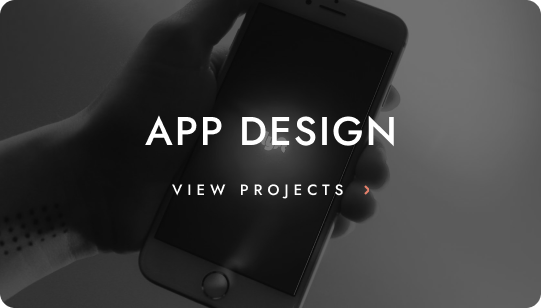
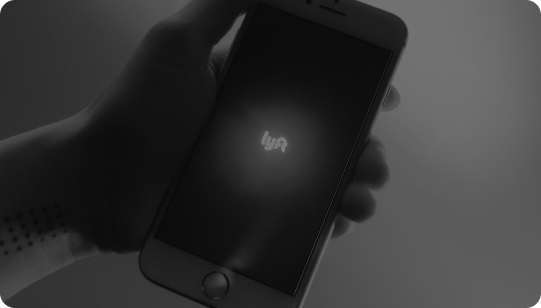
add news

diff --git a/src/components/Cards-com/Cards-com.scss b/src/components/Cards-com/Cards-com.scss
@@ -1,8 +1,55 @@
-.cards-item {
-    width: 541px;
-    height: 308px;
-    flex-shrink: 0;
-    border-radius: 15px;
-    background: #000;
-    background-image: url(../../assets/img/App-design.png);
+.cards-list {
+    display: flex;
+    align-items: center;
+    gap: 0 30px;
+
+    .cards-item {
+        display: flex;
+        position: relative;
+        flex-direction: column;
+        justify-content: center;
+        text-align: center;
+        width: 541px;
+        height: 308px;
+        flex-shrink: 0;
+        border-radius: 15px;
+        background: #000;
+        background-image: url(../../assets/img/App-design.png);
+
+        &:nth-child(2) {
+            background-image: url(../../assets/img/nature.png);
+        }
+
+        h2 {
+            color: #FFF;
+            text-align: center;
+            font-size: 40px;
+            font-style: normal;
+            font-weight: 500;
+            line-height: 48px;
+            letter-spacing: 2px;
+            margin-bottom: 24px;
+        }
+
+        p {
+            color: #FFF;
+            font-size: 15px;
+            font-style: normal;
+            font-weight: 500;
+            line-height: normal;
+            letter-spacing: 5px;
+            text-transform: uppercase;
+        }
+
+        img {
+            position: absolute;
+            width: 8px;
+            height: 10px;
+            right: 30%;
+            bottom: 36%;
+
+        }
+    }
+
+
 }

diff --git a/src/components/Cards-com/Cards-com.jsx b/src/components/Cards-com/Cards-com.jsx
@@ -1,14 +1,19 @@
 import "./Cards-com.scss";
+import Icon from "../../assets/svg/right-icon.svg"
 
 function CardsCom() {
     return (
         <div className="container">
             <ul className="cards-list">
                 <li className="cards-item">
-                    <h2>Lorem ipsum dolor sit amet.</h2>
-                    <p></p>
-                    <img src="" alt="" />
-                    <p>Lorem ipsum dolor sit amet.</p>
+                    <h2>APP DESIGN </h2>
+                    <p>VIEW PROJECTS</p>
+                    <img src={Icon} alt="icon" />
+                </li>
+                <li className="cards-item">
+                    <h2>GRAPHIC DESIGN</h2>
+                    <p>VIEW PROJECTS</p>
+                    <img src={Icon} alt="icon" />
                 </li>
             </ul>
         </div>
